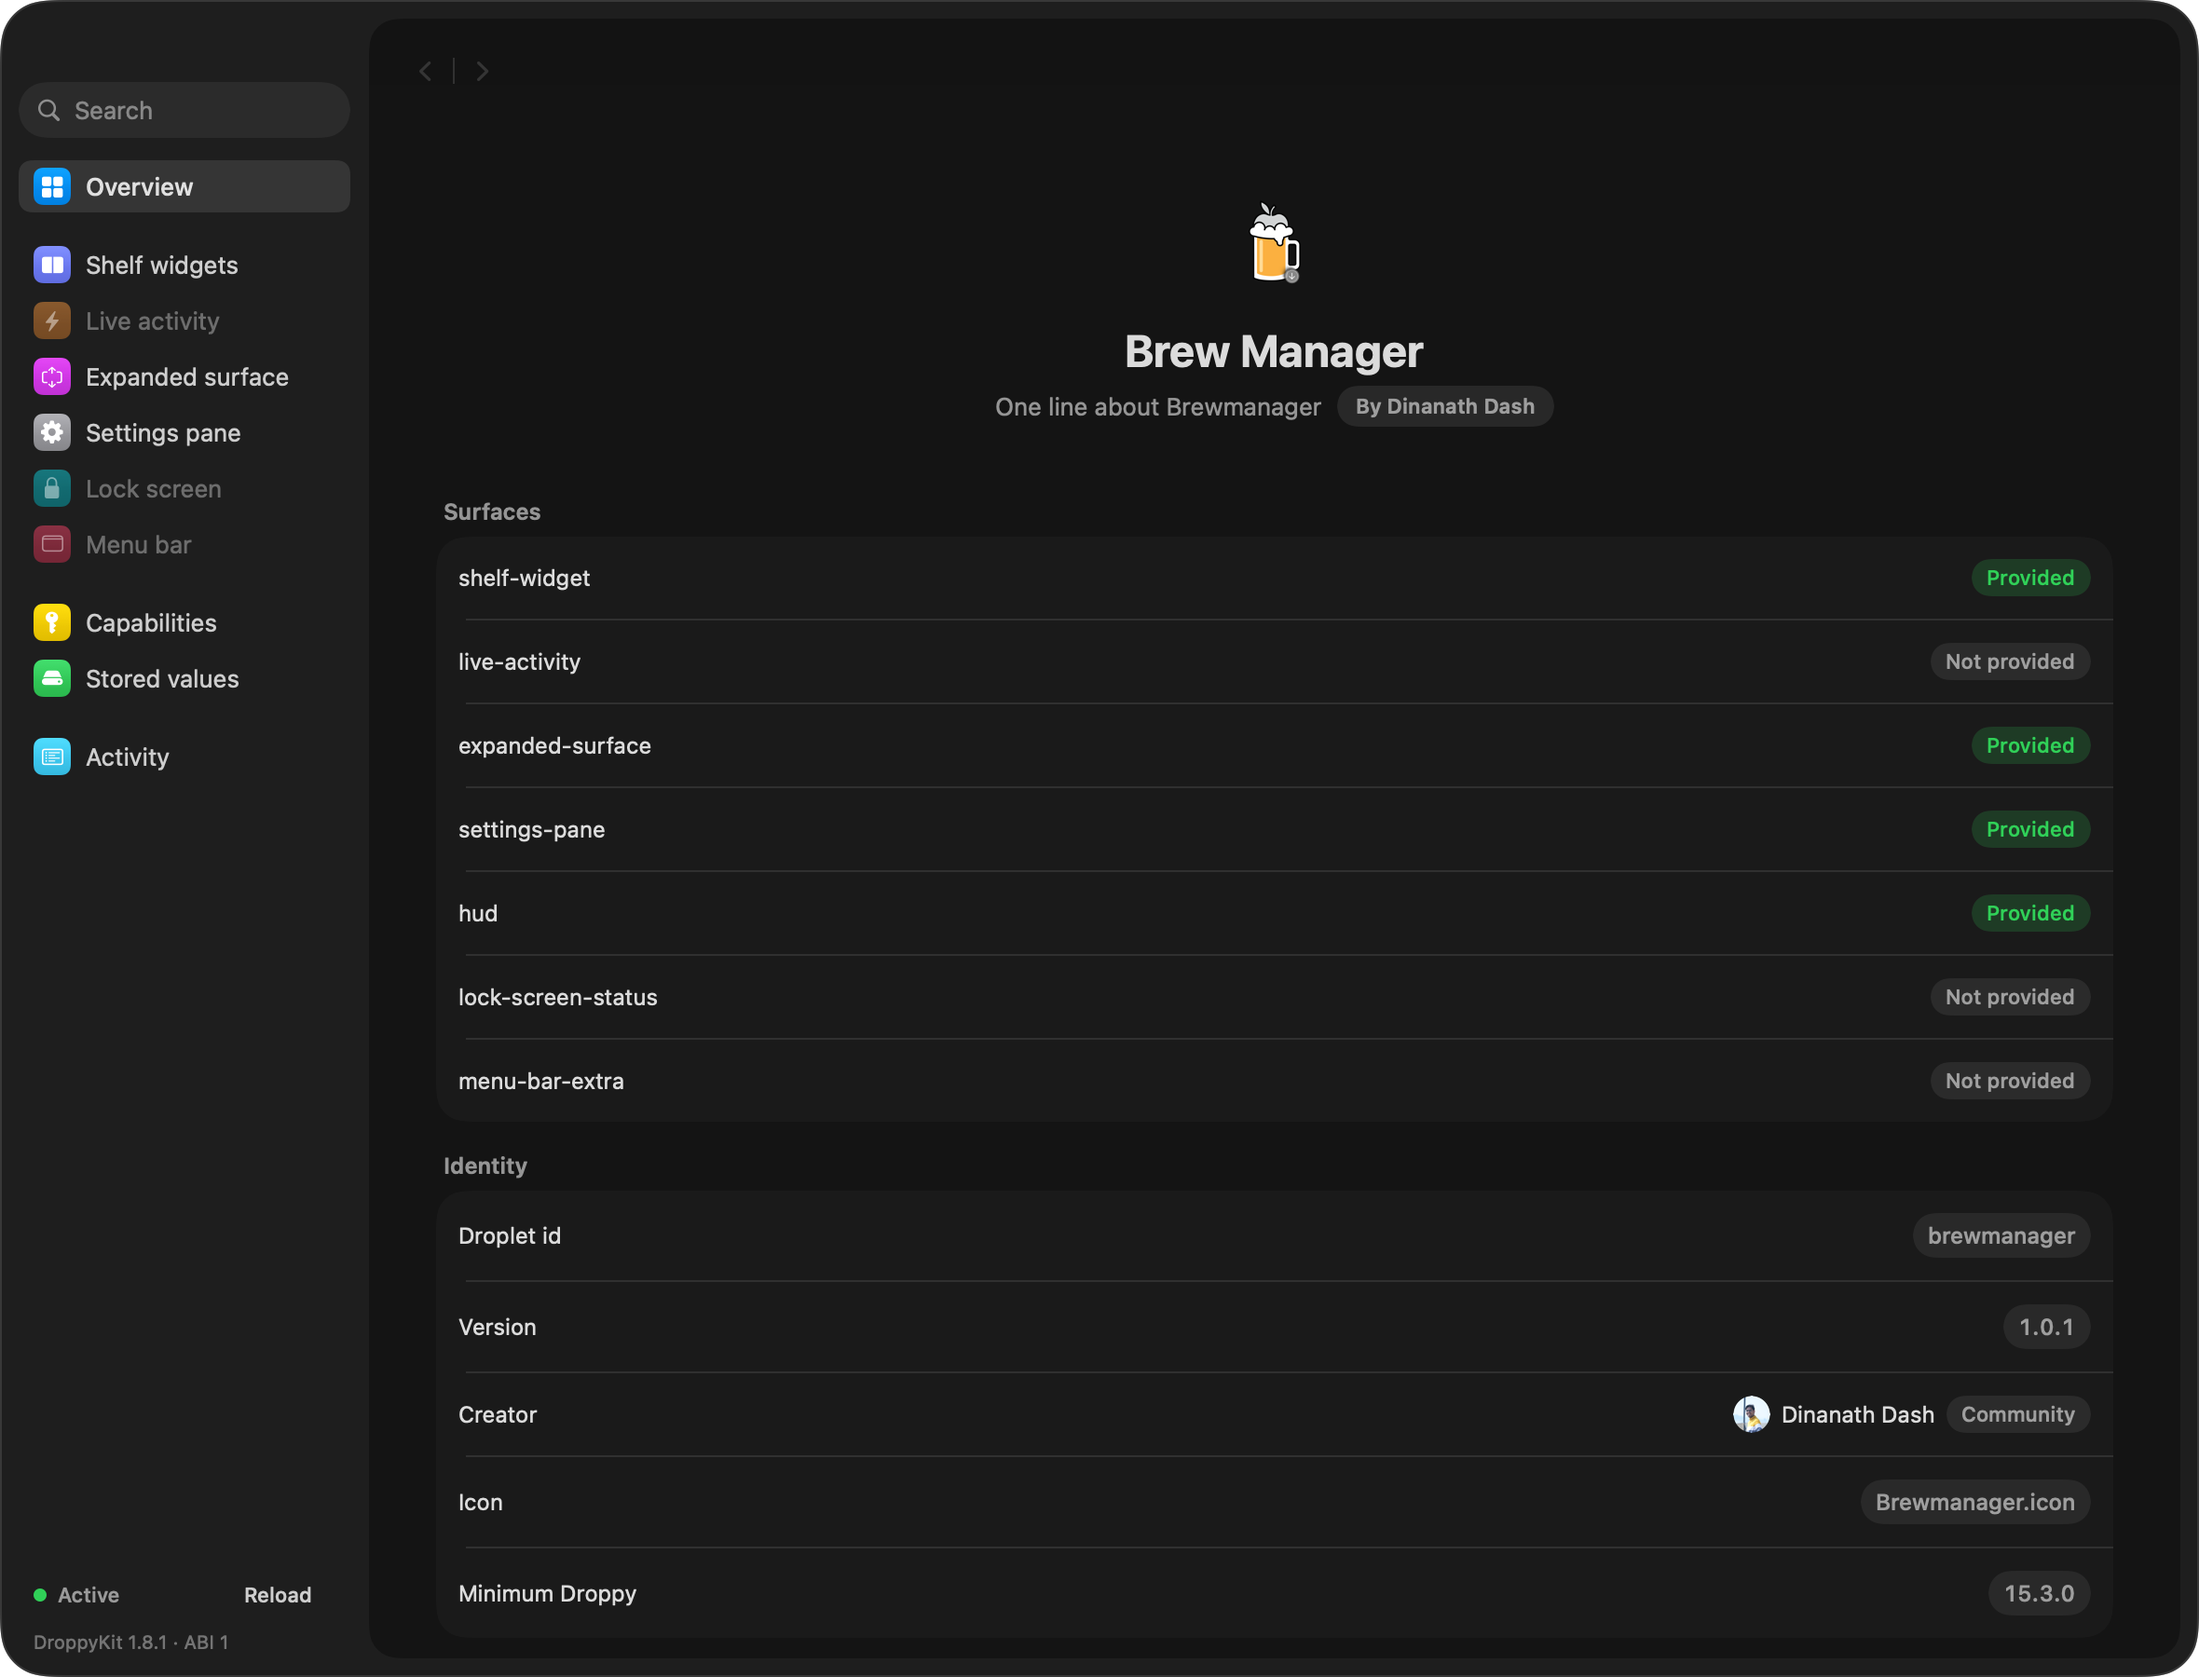
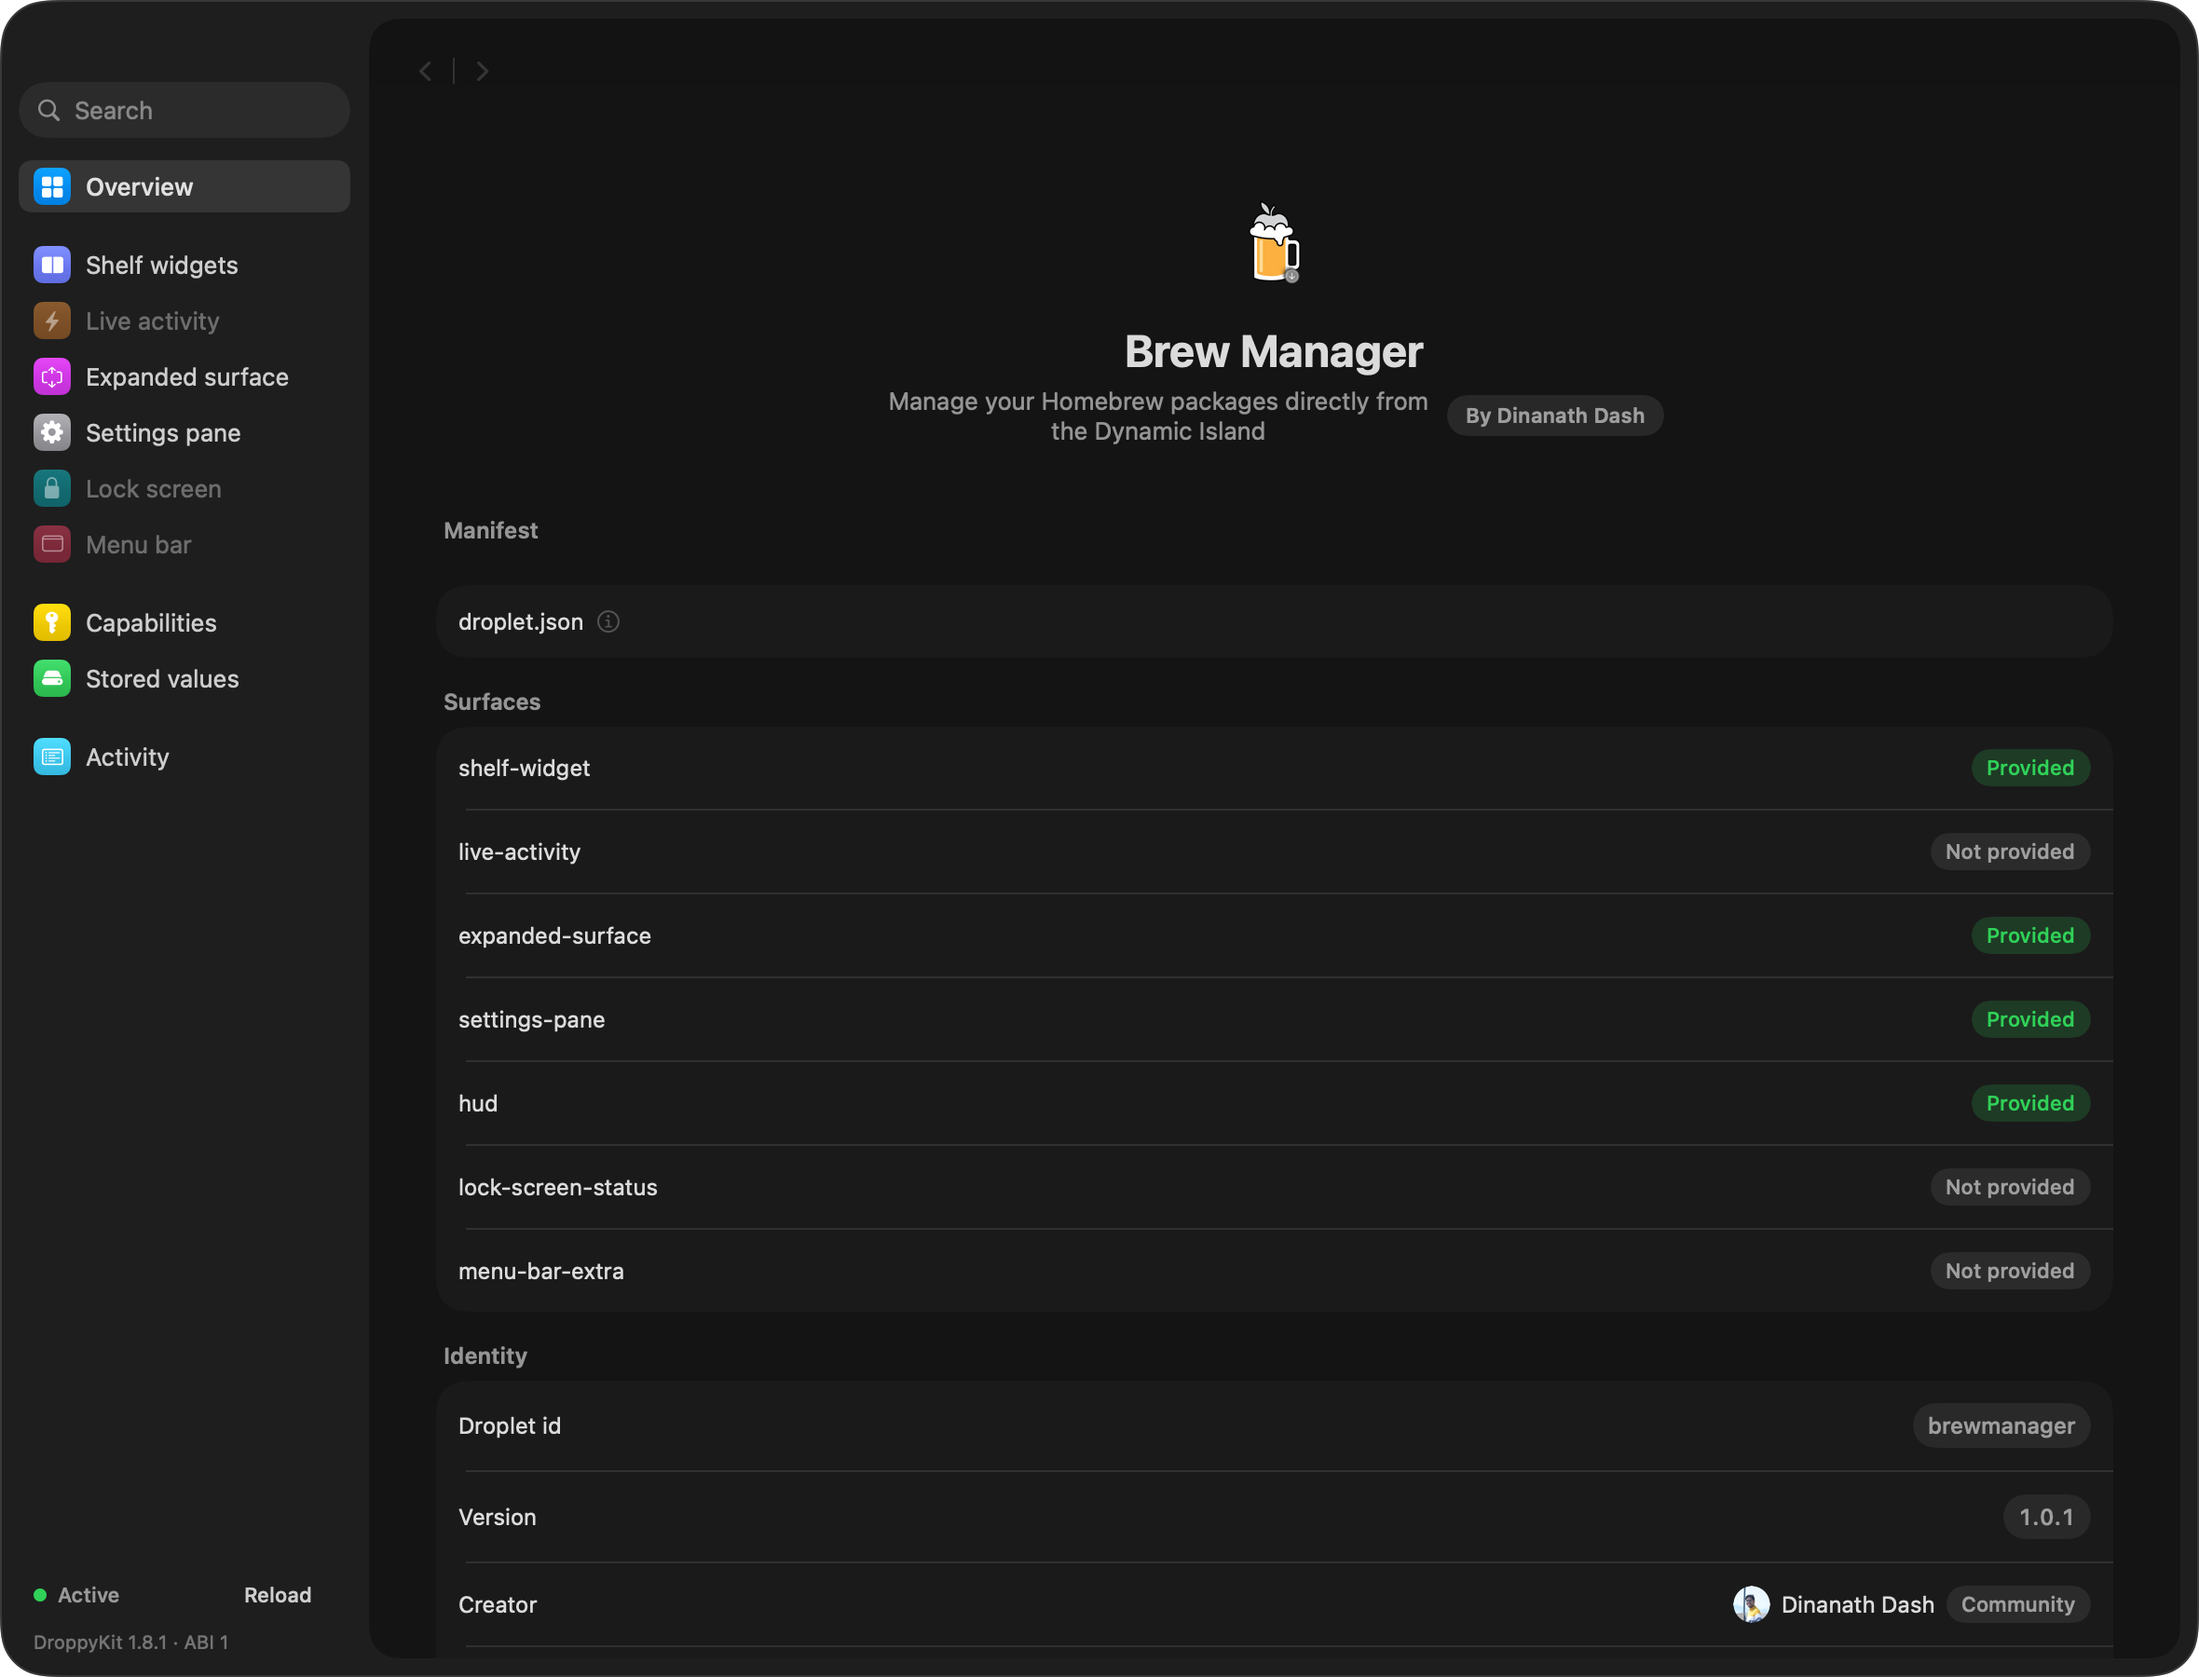
feat: display package descriptions in UI and update app metadata

diff --git a/Sources/Brewmanager/SettingsPaneView.swift b/Sources/Brewmanager/SettingsPaneView.swift
@@ -205,6 +205,12 @@ struct SettingsPaneView: View {
                                                             .font(.system(size: 12))
                                                             .foregroundStyle(AdaptiveColors.notchSurfaceSecondaryText)
                                                     }
+                                                    if let desc = pkg.desc {
+                                                        Text(desc)
+                                                            .font(.system(size: 11))
+                                                            .foregroundStyle(AdaptiveColors.notchSurfaceSecondaryText.opacity(0.8))
+                                                            .lineLimit(1)
+                                                    }
                                                 }
                                                 Spacer()
                                                 

diff --git a/Sources/Brewmanager/BrewService.swift b/Sources/Brewmanager/BrewService.swift
@@ -53,6 +53,7 @@ public struct InstalledPackage: Decodable, Identifiable, Hashable, Sendable {
     public let name: String
     public let installed: [InstalledPackageVersion]?
     public let version: String?
+    public let desc: String?
     public var isCask: Bool = false
     
     enum CodingKeys: String, CodingKey {
@@ -60,6 +61,7 @@ public struct InstalledPackage: Decodable, Identifiable, Hashable, Sendable {
         case token
         case installed
         case version
+        case desc
     }
     
     public init(from decoder: Decoder) throws {
@@ -75,6 +77,7 @@ public struct InstalledPackage: Decodable, Identifiable, Hashable, Sendable {
         }
         self.installed = try? container.decodeIfPresent([InstalledPackageVersion].self, forKey: .installed)
         self.version = try? container.decodeIfPresent(String.self, forKey: .version)
+        self.desc = try? container.decodeIfPresent(String.self, forKey: .desc)
     }
 }
 

diff --git a/README.md b/README.md
@@ -3,6 +3,13 @@
 A Droplet for [Droppy](https://getdroppy.app), built with
 [DroppyKit](https://getdroppy.app/docs/droppykit).
 
+## Features
+
+- **Discover & Install**: Search and install Homebrew packages directly from the Droplet settings pane.
+- **Update & Delete**: Update Outdated packages or uninstall unused packages.
+- **Visual Badges**: Easily identify Formula vs Cask packages.
+- **Droppy UI**: Fully integrated with the Droppy design language for a seamless experience.
+
 ## Developing
 
 ```bash
